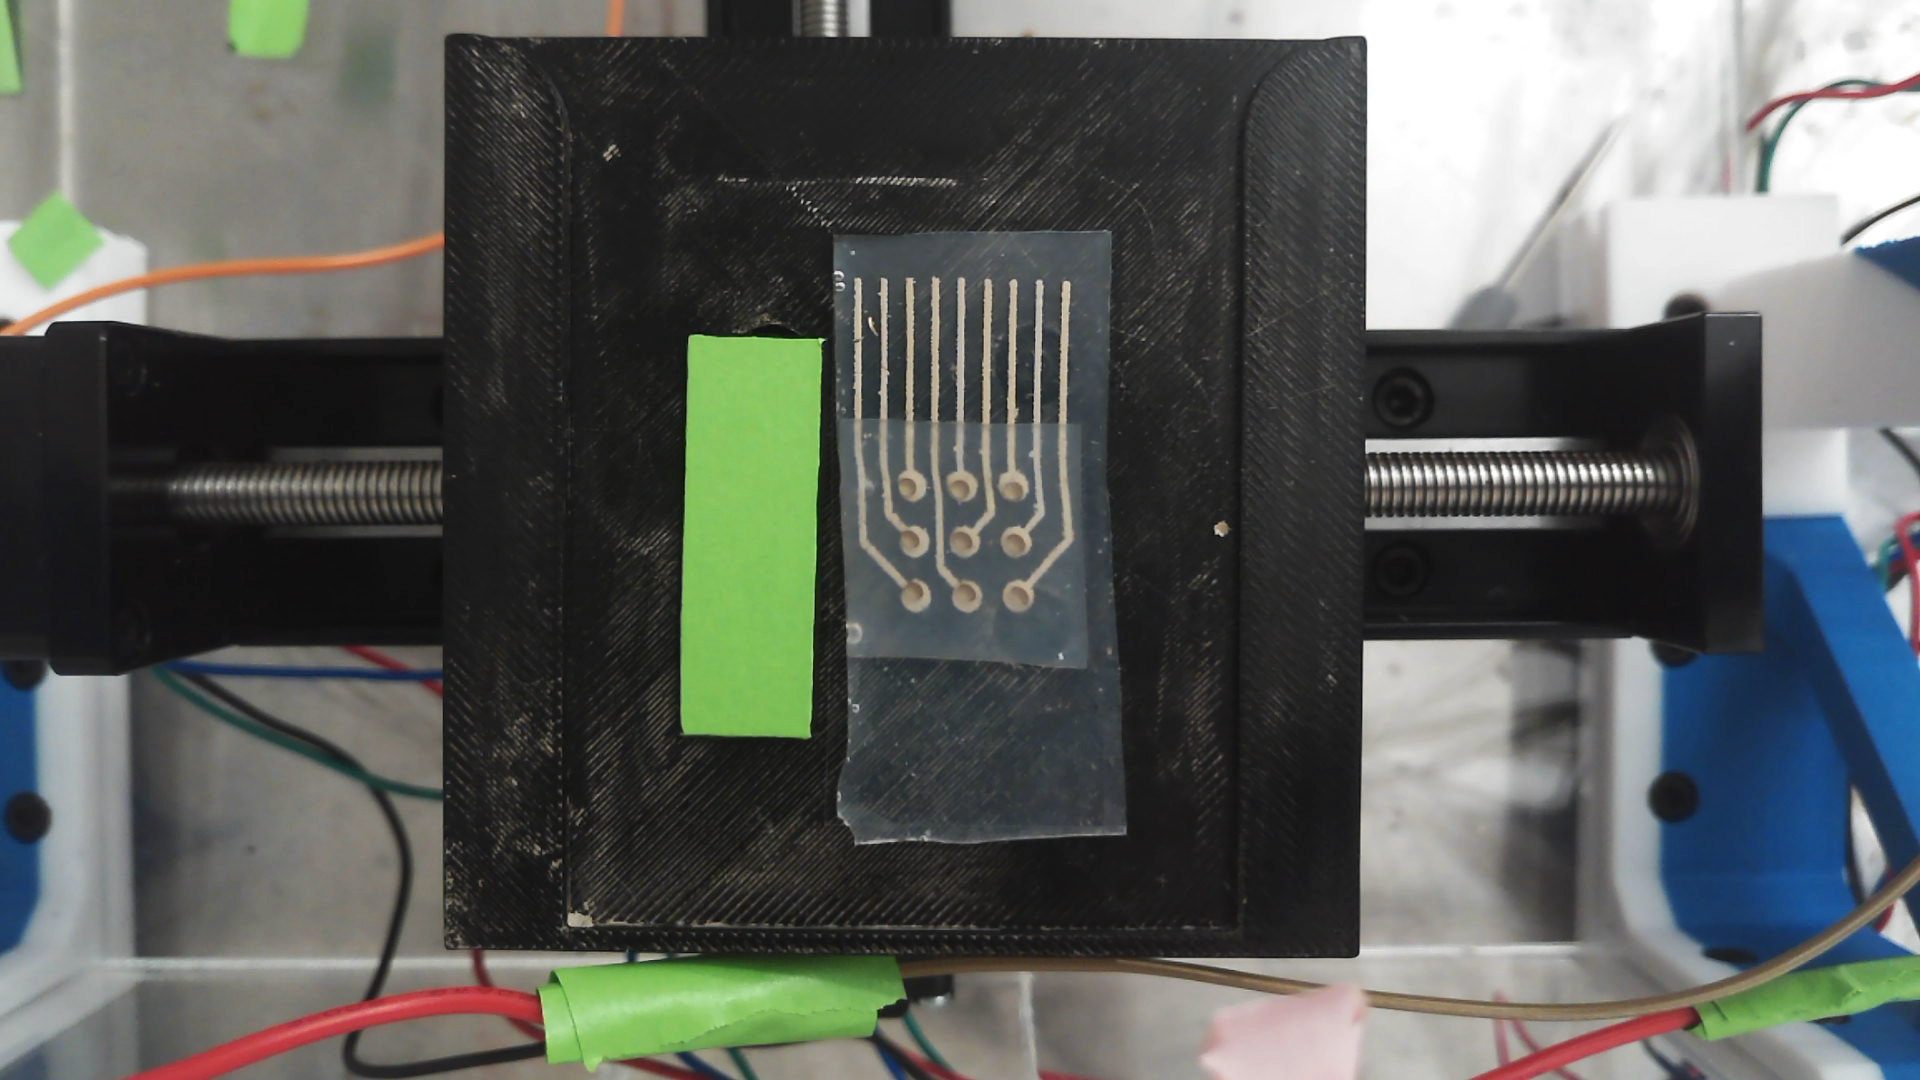
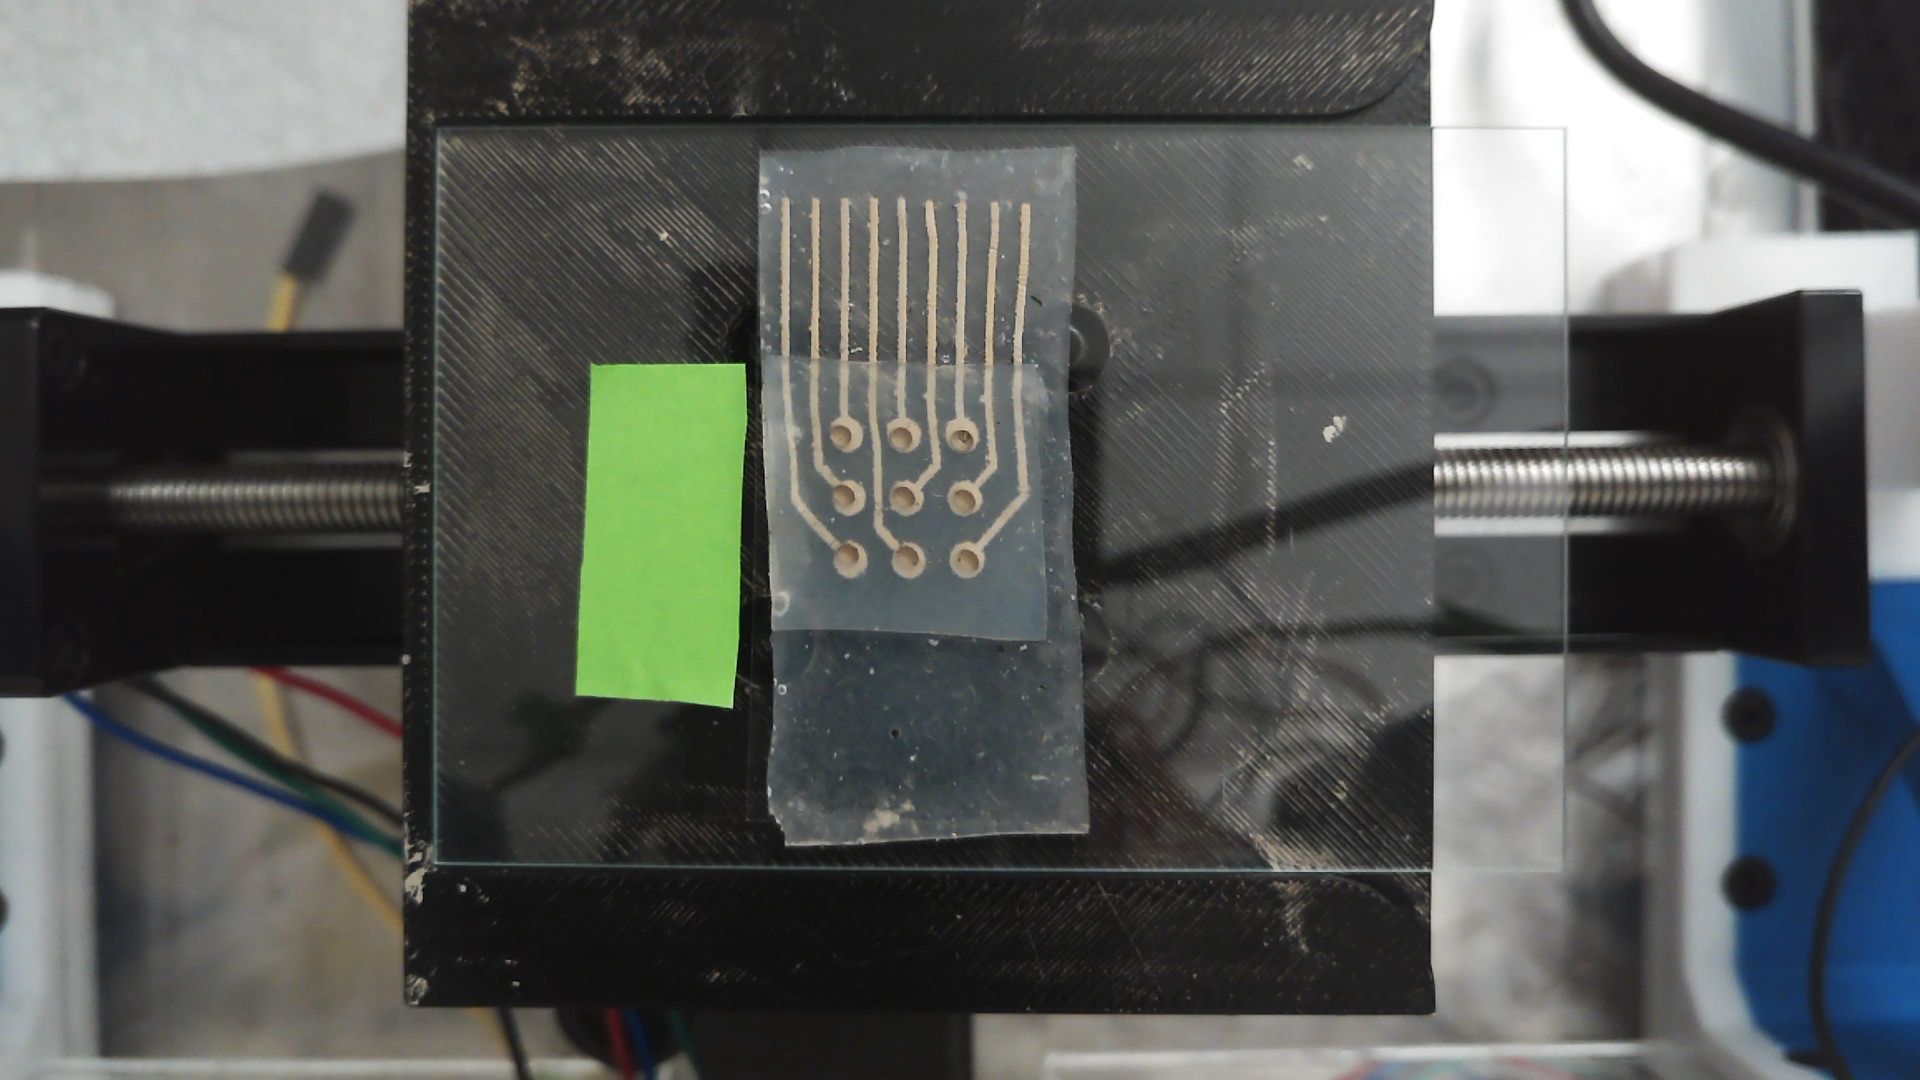
salam commit

diff --git a/calib.py b/calib.py
@@ -1,39 +1,62 @@
-import numpy as np
 import cv2
+import numpy as np
 import glob
 
-# Settings
-chessboard_size = (4, 5)  # 6 inner corners per row/column
-square_size = 8.0         # millimeters
+# -----------------------------
+# Charuco/AprilTag board setup
+# -----------------------------
+# Define the Charuco board (adjust these if you used a different size)
+squares_x = 6  # number of squares along X
+squares_y = 5  # number of squares along Y
+square_length = 0.008  # meters
+marker_length = 0.006  # meters
 
-# Prepare object points
-objp = np.zeros((chessboard_size[0]*chessboard_size[1],3), np.float32)
-objp[:,:2] = np.mgrid[0:chessboard_size[0],0:chessboard_size[1]].T.reshape(-1,2)
-objp = objp * square_size
+# Use 4x4_50 AprilTag dictionary (adjust based on your pattern)
+aruco_dict = cv2.aruco.getPredefinedDictionary(cv2.aruco.DICT_4X4_50)
+board = cv2.aruco.CharucoBoard_create(
+    squares_x, squares_y, square_length, marker_length, aruco_dict
+)
 
-objpoints = []
-imgpoints = []
+# -----------------------------
+# Read calibration images
+# -----------------------------
+image_dir = "calibpics/*.jpg"  # Update to your folder path
+images = glob.glob(image_dir)
 
-images = glob.glob('calibpics/*.jpg')  # Adjust path if needed
+all_corners = []
+all_ids = []
+img_size = None
 
 for fname in images:
     img = cv2.imread(fname)
     gray = cv2.cvtColor(img, cv2.COLOR_BGR2GRAY)
-    ret, corners = cv2.findChessboardCorners(gray, chessboard_size, None)
-    if ret:
-        objpoints.append(objp)
-        imgpoints.append(corners)
-        # Optional: draw and display
-        cv2.drawChessboardCorners(img, chessboard_size, corners, ret)
-        cv2.imshow('img', img)
-        cv2.waitKey(100)
-cv2.destroyAllWindows()
+    img_size = gray.shape[::-1]
 
-# Calibrate
-ret, mtx, dist, rvecs, tvecs = cv2.calibrateCamera(objpoints, imgpoints, gray.shape[::-1], None, None)
-print("Camera matrix:\n", mtx)
-print("Distortion coefficients:\n", dist)
-print("Reprojection error:", ret)
+    corners, ids, _ = cv2.aruco.detectMarkers(gray, aruco_dict)
 
-# Save to file
-np.savez('calibration_data.npz', cameraMatrix=mtx, distCoeffs=dist)
+    if ids is not None and len(ids) > 4:
+        _, charuco_corners, charuco_ids = cv2.aruco.interpolateCornersCharuco(
+            corners, ids, gray, board
+        )
+        if charuco_corners is not None and len(charuco_corners) > 4:
+            all_corners.append(charuco_corners)
+            all_ids.append(charuco_ids)
+
+# -----------------------------
+# Calibrate camera
+# -----------------------------
+if len(all_corners) > 0:
+    ret, camera_matrix, dist_coeffs, rvecs, tvecs = cv2.aruco.calibrateCameraCharuco(
+        charucoCorners=all_corners,
+        charucoIds=all_ids,
+        board=board,
+        imageSize=img_size,
+        cameraMatrix=None,
+        distCoeffs=None
+    )
+
+    print("Camera matrix:\n", camera_matrix)
+    print(f"\nOptical center (cx, cy): ({camera_matrix[0,2]:.2f}, {camera_matrix[1,2]:.2f})")
+    print(f"Focal lengths (fx, fy): ({camera_matrix[0,0]:.2f}, {camera_matrix[1,1]:.2f})")
+else:
+    print("Not enough valid detections for calibration.")

diff --git a/gui2.py b/gui2.py
@@ -35,7 +35,7 @@ class DashboardApp(ctk.CTk):
         self.calavg = 0.0
         self.imageCenter = (0,0)
         self.pause_camera = False  # Prevent camera lag during dropdown interaction
-
+        self.syringeOffsets = ([-3.6, -25.7, -60])
         self.displacements = []
 
         # Sidebar
@@ -128,6 +128,24 @@ class DashboardApp(ctk.CTk):
             fg_color="#23272e",
             command=self.extrude_points,
         ).pack(fill="x", padx=10, pady=(0, 10))
+
+        ctk.CTkButton(
+            self.control_group_2,
+            text="Lower Syringe",
+            height=40,
+            fg_color="#23272e",
+            command=self.moveSyringe,
+        ).pack(fill="x", padx=10, pady=(0, 10))
+
+        ctk.CTkButton(
+            self.control_group_2,
+            text="Home Z",
+            height=40,
+            fg_color="#23272e",
+            command=self.HomeZ,
+        ).pack(fill="x", padx=10, pady=(0, 10))
+
+
 
         # === XYZ Controls ===
         self.xyz_controls = ctk.CTkFrame(self.sidebar, fg_color="#1e1e1e")
@@ -431,6 +449,15 @@ class DashboardApp(ctk.CTk):
 
         toPoints = self.displacements
         sendToPoints(points = toPoints)
+
+
+    def HomeZ(self):
+        sendToPoints(z_homing=True)
+
+    def moveSyringe(self): 
+        sendToPoints(x_center=-0.3, y_center=-24.8)
+        sendToPoints(z_dist=-61)
+
 
     def toggle_mode(self):
         mode = ctk.get_appearance_mode()

diff --git a/sendPython.py b/sendPython.py
@@ -6,7 +6,7 @@ PORT = '/dev/tty.usbmodem3446395A32311'  # <-- Replace with your port
 BAUD = 115200                      # Or 250000 depending on your firmware
 TIMEOUT = 1
 
-def sendToPoints(x_center = 0, y_center = 0, points = [], z_dist = 0, homing = False, extrusion = False):
+def sendToPoints(x_center = 0, y_center = 0, points = [], z_dist = 0, homing = False, extrusion = False, z_homing=False):
     # === CONNECT TO BOARD ===
     print("Connecting to {}...".format(PORT))
     ser = serial.Serial(PORT, BAUD, timeout=TIMEOUT)
@@ -56,9 +56,16 @@ def sendToPoints(x_center = 0, y_center = 0, points = [], z_dist = 0, homing = F
         send_gcode("G92 X0 Y0")
         send_gcode("G90")
 
+    if(z_homing):
+        send_gcode("G28 Z")
+
+
     if(x_center != 0 and y_center != 0):
         send_gcode("G1 X{} F200".format(x_center))   # Move X to the origin's point
         send_gcode("G1 Y{} F200".format(y_center))
+
+    if (z_dist !=0):
+        send_gcode("G1 Z{} F200".format(z_dist))
 
     for coord in points:
         if (len(coord)==3):

diff --git a/livefeed_measurements.py b/livefeed_measurements.py
@@ -44,7 +44,7 @@ def detect_green_region(frame: np.ndarray, real_length: float, real_width: float
     return None
 
 def main():
-    r_length = 30
+    r_length = 22
     r_width = 10
     image_path = "frames/screenshot_3_seconds.png"
     image = cv2.imread(image_path)
